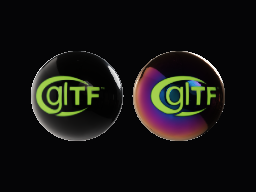
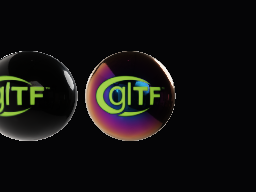
Phase 6 after phase 7: declarations again; khriridescence's frame centred on the iridescent ball (the frames' check that something is drawn)

diff --git a/src/helder/scene/runtime.d.ts b/src/helder/scene/runtime.d.ts
@@ -3,7 +3,8 @@
 // exports of helder's Haxe classes. A World of nodes (Node: helder/scene's
 // class over a node's handle, its members Script's), cameras, lights,
 // meshes (Shapes, Geometry's shapes and Curve3, MeshRenderer, InstancedMesh,
-// Sprites) and materials (Material's factories: toon, lambert, unlit...), glTF models (Model,
+// Sprites) and materials (Material's factories: toon, lambert, unlit...;
+// the glTF extensions' fields, drawn by Physical, Transmission), glTF models (Model,
 // helder/asset's model(path) loads one; GltfScene), the renderer and its
 // post chain (PostProcess: its effects Ssao, Dof, Outline, Lut, Ssr,
 // MotionBlur, GodRays, Taa, Smaa; the view buffers they read, ViewBuffers), occlusion
@@ -21,7 +22,7 @@ import type {Asset, FontFile, Image} from "helder/asset";
 import type {Mat4, Quat, Vec2, Vec3, Vec4} from "helder/gfx";
 import type {Node} from "helder/scene";
 
-declare const __haxe: {Mesh: "helder.scene.render.Mesh", Encoder: "helder.gfx.Encoder", World: "helder.scene.World", Camera: "helder.scene.Camera", Light: "helder.scene.render.Light", Renderer: "helder.scene.render.Renderer", Shadows: "helder.scene.render.Shadows", Fog: "helder.scene.render.Fog", Material: "helder.scene.render.Material", MeshRenderer: "helder.scene.render.MeshRenderer", Shapes: "helder.scene.render.Shapes", Geometry: "helder.scene.render.Geometry", VertexData: "helder.scene.render.VertexData", Curve3: "helder.scene.math.Curve3", InstancedMesh: "helder.scene.render.InstancedMesh", Sprites: "helder.scene.render.Sprites", Model: "helder.scene.render.Model", MaterialShader: "helder.scene.render.MaterialShader", PostProcess: "helder.scene.render.PostProcess", Ssao: "helder.scene.render.Ssao", Dof: "helder.scene.render.Dof", Outline: "helder.scene.render.Outline", Lut: "helder.scene.render.Lut", ViewBuffers: "helder.scene.render.ViewBuffers", Ssr: "helder.scene.render.Ssr", MotionBlur: "helder.scene.render.MotionBlur", GodRays: "helder.scene.render.GodRays", Taa: "helder.scene.render.Taa", Smaa: "helder.scene.render.Smaa", Occlusion: "helder.scene.render.Occlusion", Lines: "helder.scene.render.Lines", LineRenderer: "helder.scene.render.LineRenderer", DebugDraw: "helder.scene.render.DebugDraw", Helper: "helder.scene.render.Helper", AxesHelper: "helder.scene.render.AxesHelper", GridHelper: "helder.scene.render.GridHelper", BoundsHelper: "helder.scene.render.BoundsHelper", LightHelper: "helder.scene.render.LightHelper", CameraHelper: "helder.scene.render.CameraHelper", SkeletonHelper: "helder.scene.render.SkeletonHelper", Hit: "helder.scene.render.Hit", HitList: "helder.scene.render.Hit.HitList", RaycastOptions: "helder.scene.render.Hit.RaycastOptions", Raycaster: "helder.scene.render.Raycaster", Bvh: "helder.scene.render.Bvh", Text3D: "helder.scene.render.Text3D", InputMap: "helder.scene.input.InputMap", Bindings: "helder.scene.input.Bindings", FixedStep: "helder.scene.FixedStep", Device: "helder.gfx.Device", Surface: "helder.os.Surface", Window: "helder.os.Window", App: "helder.os.App", Event: "helder.os.Event", Script: "helder.scene.Script", __module: "helder.scene.TypeScript"};
+declare const __haxe: {Mesh: "helder.scene.render.Mesh", Encoder: "helder.gfx.Encoder", World: "helder.scene.World", Camera: "helder.scene.Camera", Light: "helder.scene.render.Light", Renderer: "helder.scene.render.Renderer", Shadows: "helder.scene.render.Shadows", Fog: "helder.scene.render.Fog", Material: "helder.scene.render.Material", UvTransform: "helder.scene.render.Material.UvTransform", Physical: "helder.scene.render.Physical", Transmission: "helder.scene.render.Transmission", MeshRenderer: "helder.scene.render.MeshRenderer", Shapes: "helder.scene.render.Shapes", Geometry: "helder.scene.render.Geometry", VertexData: "helder.scene.render.VertexData", Curve3: "helder.scene.math.Curve3", InstancedMesh: "helder.scene.render.InstancedMesh", Sprites: "helder.scene.render.Sprites", Model: "helder.scene.render.Model", MaterialShader: "helder.scene.render.MaterialShader", PostProcess: "helder.scene.render.PostProcess", Ssao: "helder.scene.render.Ssao", Dof: "helder.scene.render.Dof", Outline: "helder.scene.render.Outline", Lut: "helder.scene.render.Lut", ViewBuffers: "helder.scene.render.ViewBuffers", Ssr: "helder.scene.render.Ssr", MotionBlur: "helder.scene.render.MotionBlur", GodRays: "helder.scene.render.GodRays", Taa: "helder.scene.render.Taa", Smaa: "helder.scene.render.Smaa", Occlusion: "helder.scene.render.Occlusion", Lines: "helder.scene.render.Lines", LineRenderer: "helder.scene.render.LineRenderer", DebugDraw: "helder.scene.render.DebugDraw", Helper: "helder.scene.render.Helper", AxesHelper: "helder.scene.render.AxesHelper", GridHelper: "helder.scene.render.GridHelper", BoundsHelper: "helder.scene.render.BoundsHelper", LightHelper: "helder.scene.render.LightHelper", CameraHelper: "helder.scene.render.CameraHelper", SkeletonHelper: "helder.scene.render.SkeletonHelper", Hit: "helder.scene.render.Hit", HitList: "helder.scene.render.Hit.HitList", RaycastOptions: "helder.scene.render.Hit.RaycastOptions", Raycaster: "helder.scene.render.Raycaster", Bvh: "helder.scene.render.Bvh", Text3D: "helder.scene.render.Text3D", InputMap: "helder.scene.input.InputMap", Bindings: "helder.scene.input.Bindings", FixedStep: "helder.scene.FixedStep", Device: "helder.gfx.Device", Surface: "helder.os.Surface", Window: "helder.os.Window", App: "helder.os.App", Event: "helder.os.Event", Script: "helder.scene.Script", __module: "helder.scene.TypeScript"};
 
 // What a node draws (node.mesh): primitives, each a vertex buffer in the
 // renderer's layout (PbrVertex: position, normal, uv; 32 bytes a vertex),
@@ -324,8 +325,9 @@ export declare class Renderer {
 	// a shader's slots for its blocks and textures, in the renderer's order:
 	// frame, object (-1: none), material, base colour, shadow map, skin,
 	// joints, metallic-roughness, emissive, occlusion, normal, the far shadow
-	// map, the environment map, the screen's ambient occlusion; then a
-	// material's own blocks (OWN on)
+	// map, the environment map, the screen's ambient occlusion; a physical
+	// shader's (0: one, -1: not), its two maps, the frame behind
+	// (Transmission's); then a material's own blocks (OWN on)
 	static slotsOf(uniforms: Array<{ name: string; binding: number; size: number }>, textures: Array<{ name: string; binding: number }>): number[];
 	readonly device: Device;
 	// without a Light in the world: towards the light (normalized when
@@ -363,6 +365,9 @@ export declare class Renderer {
 	jitter: Vec2;
 	// the frames drawn (each draw one)
 	readonly frames: number;
+	// the last draw's main pass split for Transmission's copy (1: the frame
+	// behind its see-through surfaces copied; statistics)
+	readonly splits: number;
 	// whether runs of one primitive are drawn instanced (on by default)
 	instancing: boolean;
 	// the last draw's instances drawn by instanced draws (statistics)
@@ -549,6 +554,13 @@ export declare class Material {
 	// the depth along the view as a grey, white at near and black at far
 	// (three's MeshDepthMaterial, linear), not tone mapped
 	static depth(near?: number, far?: number, options?: MaterialOptions): Material;
+	static readonly SHEEN: number;
+	static readonly SPECULAR: number;
+	static readonly CLEARCOAT: number;
+	static readonly TRANSMISSION: number;
+	static readonly IRIDESCENCE: number;
+	static readonly ANISOTROPY: number;
+	static readonly UV_SETS: number;
 	// the material's index (draws sort by it; an index into a material buffer later)
 	readonly id: number;
 	name: string;
@@ -613,6 +625,13 @@ export declare class Material {
 	uvOffset: Vec2;
 	uvRotation: number;
 	uvScale: Vec2;
+	// each core map's own uvs (glTF: a texture's texCoord, TEXCOORD_0 or
+	// _1, and its own KHR_texture_transform), in order base colour,
+	// metallic-roughness, normal, occlusion, emissive (the extensions' maps
+	// read the base colour's); null: the transform above for all, on the
+	// first uvs. Drawn by a physical shader (PhysicalShader's uvSets), its
+	// primitives' second uvs their own buffer (Mesh.Primitive.uv1)
+	textureTransforms: UvTransform[] | null;
 	// glTF's alphaMode MASK: fragments whose alpha is below it are dropped,
 	// the rest opaque (0: none)
 	alphaCutoff: number;
@@ -624,14 +643,69 @@ export declare class Material {
 	// a clear coat over the surface (KHR_materials_clearcoat): how much (0
 	// to 1) and its roughness; a polished dielectric layer (f0 0.04) whose
 	// reflection, from the sun and the environment, is added over the base
-	// and dims it by its Fresnel
+	// and dims it by its Fresnel. With a physical shader (PhysicalShader:
+	// Model.of's, or Physical's for any material) each light's, and its maps:
+	// clearcoatTexture's red times clearcoat, clearcoatRoughnessTexture's
+	// green times its roughness, clearcoatNormalTexture its own normal map
+	// (its x and y scaled by clearcoatNormalScale; else the geometry's normal)
 	clearcoat: number;
 	clearcoatRoughness: number;
+	clearcoatTexture: number | null;
+	clearcoatRoughnessTexture: number | null;
+	clearcoatNormalTexture: number | null;
+	clearcoatNormalScale: number;
 	// how much of the light goes through it (KHR_materials_transmission, 0
-	// to 1), a thin surface without refraction: its diffuse light replaced
+	// to 1; transmissionTexture's red times it): its diffuse light replaced
 	// by what is behind it (drawn see-through, Premultiplied, after the
-	// opaque surfaces), its reflections kept
+	// opaque surfaces), its reflections kept. The standard shader's: a thin
+	// surface, what is behind tinted by its colour; a physical shader's:
+	// what is behind refracted through it (the opaque frame with
+	// Transmission, else the environment), blurred by its roughness
 	transmission: number;
+	transmissionTexture: number | null;
+	// its volume (KHR_materials_volume, a physical shader's): how thick it
+	// is (in its node's units, 0: thin; thicknessTexture's green times it),
+	// and the light it absorbs on the way through: attenuationColor reached
+	// at attenuationDistance (0: none, glTF's infinity), Beer's law
+	thickness: number;
+	thicknessTexture: number | null;
+	attenuationColor: Vec3;
+	attenuationDistance: number;
+	// its index of refraction (KHR_materials_ior: 1.5, a dielectric's 0.04
+	// reflectance at normal incidence), and that reflectance's strength and
+	// colour (KHR_materials_specular: specularTexture's alpha times
+	// specularFactor, specularColorTexture's colour, sRGB, times
+	// specularColor; a metal's is its albedo); a physical shader's
+	ior: number;
+	specularFactor: number;
+	specularColor: Vec3;
+	specularTexture: number | null;
+	specularColorTexture: number | null;
+	// a sheen over it (KHR_materials_sheen, cloth's and velvet's: black for
+	// none), its colour (linear; sheenColorTexture's, sRGB, times it) and
+	// roughness (sheenRoughnessTexture's alpha times it); a physical shader's
+	sheenColor: Vec3;
+	sheenRoughness: number;
+	sheenColorTexture: number | null;
+	sheenRoughnessTexture: number | null;
+	// a thin film over it (KHR_materials_iridescence: soap bubbles, oil):
+	// how much (iridescenceTexture's red times it), the film's index of
+	// refraction and thickness in nanometres (iridescenceThicknessTexture's
+	// green from the minimum to the maximum); a physical shader's
+	iridescence: number;
+	iridescenceIor: number;
+	iridescenceThicknessMinimum: number;
+	iridescenceThicknessMaximum: number;
+	iridescenceTexture: number | null;
+	iridescenceThicknessTexture: number | null;
+	// its highlight stretched (KHR_materials_anisotropy: brushed metal):
+	// how much (0 to 1), along the tangent turned by anisotropyRotation
+	// (radians), or anisotropyTexture's direction (red and green) and
+	// strength (blue, times anisotropy); drawn with its primitive's
+	// tangents (NormalMaps); a physical shader's
+	anisotropy: number;
+	anisotropyRotation: number;
+	anisotropyTexture: number | null;
 	// the toon model's (Material.toon): bands of each light's n.l (1 or
 	// more), and the shaded side's share of the albedo (linear)
 	steps: number;
@@ -644,6 +718,76 @@ export declare class Material {
 	// black at depthFar (scene units)
 	depthNear: number;
 	depthFar: number;
+	// the glTF extensions its fields use (PhysicalShader's options, as
+	// flags: SHEEN, SPECULAR, CLEARCOAT, TRANSMISSION, IRIDESCENCE,
+	// ANISOTROPY; 0: none, the standard shader's surface); what Physical
+	// draws it with
+	extensions(): number;
+	// whether it is drawn with its primitives' tangents (a normal map, the
+	// clear coat's own, an anisotropy: NormalMaps)
+	tangents(): boolean;
+}
+
+// a map's uvs (Material.textureTransforms): TEXCOORD_0 or _1 (texCoord),
+// turned by rotation (radians), scaled, then moved (KHR_texture_transform)
+export declare class UvTransform {
+	constructor(offset?: Vec2, rotation?: number, scale?: Vec2, texCoord?: number);
+	offset: Vec2;
+	rotation: number;
+	scale: Vec2;
+	texCoord: number;
+}
+
+// The physical shader for every material (DESIGN-3D.md 1.3): one variant
+// set with every glTF material extension (PhysicalShader.ALL: sheen,
+// specular and ior, clearcoat with its maps, transmission and volume,
+// iridescence, anisotropy; each core map at its own uvs), drawing each material whose fields use one
+// (Material.extensions) and that has no shader of its own: a model loaded
+// at run time (Model.load, whose extensions are not known when compiling),
+// or materials made in code. Opted in, as it is big (one shader with every
+// layer, each a branch on the material's values):
+//
+//   renderer.use(new Physical());   // made before Model.load's models are read
+//
+// Model.of's models need none: their materials get the variants of the
+// extensions they use, made when compiling (PhysicalShader).
+export declare class Physical {
+	// (glTF files read from now on read their extensions: GltfExtensions;
+	// made before the models load)
+	constructor();
+	attach(renderer: Renderer): void;
+	// the shader of a material that uses an extension (Material.extensions)
+	shaderOf(m: Material): MaterialShader | null;
+}
+
+// The opaque frame behind see-through surfaces (DESIGN-3D.md 1.3:
+// KHR_materials_transmission and _volume), what a physical shader's
+// transmitting surface (PhysicalShader, Material.transmission) shows
+// through it, refracted by its ior and thickness and blurred by its
+// roughness (a mip level a roughness): once a frame that draws one, after
+// the opaque surfaces and the AfterOpaque hooks (the sky), the frame's pass
+// is ended, its colour copied into a mip-mapped texture of the target's
+// format, and the pass begun again where it was (its colour and depth
+// kept), the see-through surfaces drawn after:
+//
+//   renderer.use(new Transmission(renderer.device));
+//
+// An offscreen renderer's (a <Scene>'s box, drawInto: the frame's colour
+// is a texture there); a renderer of the device's frame, or a frame with no
+// transmitting surface in view, copies nothing. Without it a transmitting
+// surface shows the environment refracted through it instead. Its cost: a
+// copy of the frame and its mips (a third more) in the target's format,
+// a pass split in two on the frames that need it (Renderer.split counts them).
+export declare class Transmission {
+	constructor(device: Device);
+	readonly device: Device;
+	attach(renderer: Renderer): void;
+	// the frame's colour so far (source, width x height texels of format)
+	// copied, its mips made; returns the copy
+	capture(enc: Encoder, source: number, width: number, height: number, format: number): number;
+	// the copy's mip levels below its first (the roughest's)
+	levels(): number;
+	dispose(): void;
 }
 
 // The mesh a node draws: a component (a store keyed by node), several
@@ -1019,7 +1163,12 @@ export declare class Sprites extends InstancedMesh {
 // path known only at run time (an Asset, names unknown, not bundled).
 //
 // Its GPU meshes are made by the first instantiate with a device and
-// shared by every instance.
+// shared by every instance. Its materials' glTF extensions (sheen,
+// specular, clearcoat, transmission, iridescence, anisotropy) are read when
+// compiling too: each set its materials use is compiled into the build
+// (PhysicalShader), and no other, so a game whose models have no sheen links
+// no sheen; a model Model.load reads is drawn by Physical's (every
+// extension), when the program uses it.
 export declare class Model<N, M, A, C> {
 	// a model whose path is known only at run time: loaded in the background
 	// (in the browser fetched, relative to the page; natively read at once),
@@ -1076,6 +1225,9 @@ export declare class MaterialShader {
 	// the blocks of the material's own: its parameter's name, its slot, in
 	// each variant (in the order above; -1: not in it)
 	readonly blocks: Array<{ name: string; bindings: number[] }>;
+	// the glTF extensions its variants have (PhysicalShader's: Material's
+	// flags, SHEEN ...; 0: none, a material's own slots)
+	extensions: number;
 }
 
 // The post-process chain of an HDR frame (Renderer.hdr: drawn in linear
